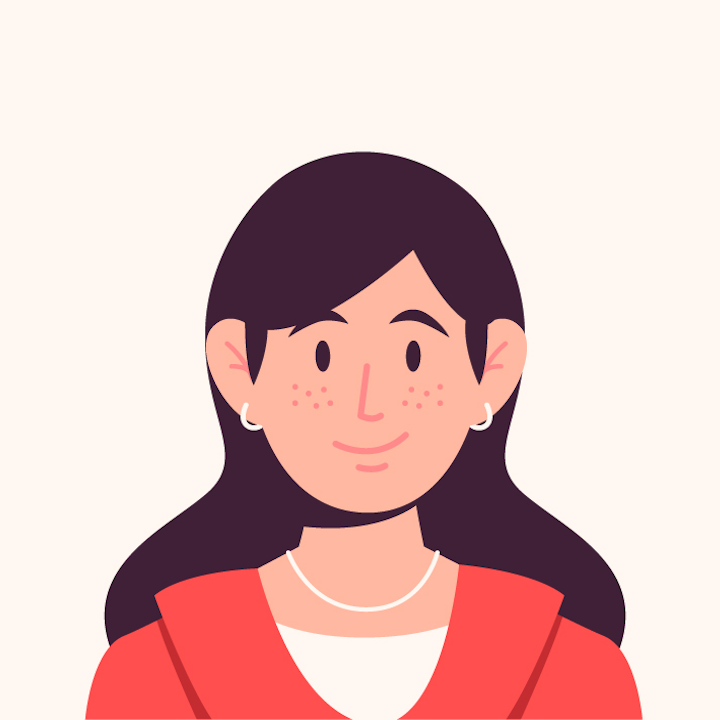
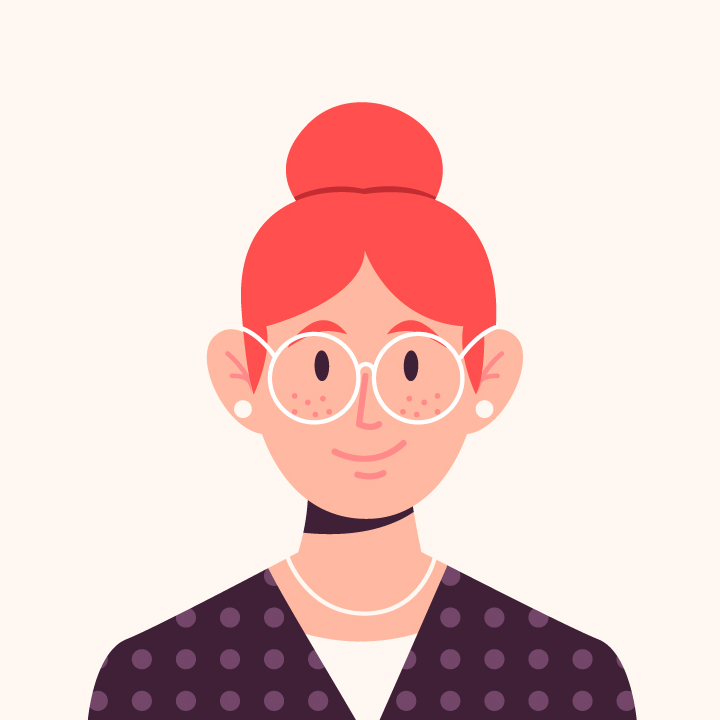
appropriate user profile picture display

diff --git a/client/src/components/Navbar.jsx b/client/src/components/Navbar.jsx
@@ -1,15 +1,52 @@
-import React, { useState } from 'react'
+import React, { useEffect, useState } from 'react'
 import { LuMenu } from "react-icons/lu";
-import { Link } from 'react-router-dom';
+import { Link, Links } from 'react-router-dom';
 import Buttons from './Buttons';
+import axios from 'axios';
+const baseURL = import.meta.env.VITE_BASE_URL
 
 const Navbar = () => {
     const [isMenuOpen, setIsMenuOpen] = useState(false);
+    const [avatar, setAvatar] = useState({ isDisplay: false, avatarID: null })
+    useEffect(() => {
+        const checkAuth = async () => {
+            const token = localStorage.getItem("token");
+            if (!token) return
+            try {
+                const userAuth = await axios.get(`${baseURL}/auth/`, {
+                    headers: {
+                        Authorization: token
+                    }
+                });
+                if (!userAuth.data.err) {
+                    setAvatar({
+                        isDisplay: true,
+                        avatarID: userAuth.data.user.avatar,
+                        gender: userAuth.data.user.gender
+                    })
+                }
+            } catch (err) {
+                localStorage.removeItem("token")
+            }
+        };
 
+        checkAuth();
+    }, []);
+    const logout = () => {
+        localStorage.removeItem('token')
+        setIsMenuOpen(false)
+        setAvatar(
+            {
+                isDisplay: false,
+                avatarID: null
+            }
+        )
+    }
+    console.log(avatar.gender + "_Av" + avatar.avatarID)
     return (
         <div className="px-8 py-5 md:px-20 xl:px-40 lg:py-10 sticky top-0 w-full flex justify-between items-center bg-seaSalt pb-3 z-50">
             <Link to='/' className='cursor-default'>
-                <img src="/Logo/Logo.png" alt="Logo" className='w-35 lg:w-60' draggable='false'/>
+                <img src="/Logo/Logo.png" alt="Logo" className='w-35 lg:w-60' draggable='false' />
             </Link>
 
             <LuMenu
@@ -21,23 +58,46 @@ const Navbar = () => {
             <div className="hidden lg:flex gap-6 items-center">
                 <Link to='/'><p className='text-chineseViolet cursor-pointer text-2xl hover:underline underline-offset-8'>Home</p></Link>
                 <Link to='/generate'><p className='text-chineseViolet cursor-pointer text-2xl hover:underline underline-offset-8'>Generate</p></Link>
-                <div className='flex gap-4'>
-                    <Buttons bgColor='bg-chineseViolet hover:bg-chineseViolet/90 hover:border-chineseViolet/0' width='' textColor='text-ivory' text='Sign In' goTo='/auth/login' otherResponsiveStyles='px-5 py-1' />
-                    <Buttons bgColor='bg-seaSalt hover:border-chineseViolet/90 hover:border-chineseViolet/90' width='' textColor='text-chineseViolet' text='Sign Up' goTo='/auth/register' otherResponsiveStyles='px-5 py-1' />
-                </div>
+                {
+                    (avatar.isDisplay)
+                        ? <>
+                            <Link className='border-2 rounded-full p-0.5 hover:border-dashed border-chineseViolet/0 hover:border-chineseViolet/40 duration-300 ease-in-out'>
+                                <div className="w-20 h-20 border-4 border-chineseViolet rounded-full overflow-clip cursor-pointer">
+                                    <img src={`/Avatars/Square_Images/${avatar.gender}_Av${avatar.avatarID}.png`} alt="" />
+                                </div>
+                            </Link>
+                        </>
+                        : <div className='flex gap-4'>
+                            <Buttons bgColor='bg-chineseViolet hover:bg-chineseViolet/90 hover:border-chineseViolet/0' width='' textColor='text-ivory' text='Sign In' goTo='/auth/login' otherResponsiveStyles='px-5 py-1' />
+                            <Buttons bgColor='bg-seaSalt hover:border-chineseViolet/90 hover:border-chineseViolet/90' width='' textColor='text-chineseViolet' text='Sign Up' goTo='/auth/register' otherResponsiveStyles='px-5 py-1' />
+                        </div>
+                }
             </div>
 
             {/* Mobile Slide Menu */}
             <div className={`fixed top-0 right-0 h-full w-60 bg-seaSalt shadow-lg z-50 transform transition-transform duration-300 ease-in-out ${isMenuOpen ? 'translate-x-0' : 'translate-x-full'}`}>
                 <div className='flex flex-col gap-6 p-6'>
-                    <Link to='/' onClick={() => setIsMenuOpen(false)}><p className='text-chineseViolet text-xl'>Home</p></Link>
-                    <Link to='/generate' onClick={() => setIsMenuOpen(false)}><p className='text-chineseViolet text-xl'>Generate</p></Link>
-                    <div className='w-fit' onClick={() => setIsMenuOpen(false)}>
-                        <Buttons bgColor='bg-chineseViolet hover:bg-chineseViolet/90' width='' textColor='text-ivory' text='Sign In' goTo='/auth/login' otherResponsiveStyles='px-5 py-2' />
-                    </div>
-                    <div className='w-fit' onClick={() => setIsMenuOpen(false)}>
-                        <Buttons bgColor='bg-seaSalt hover:border-chineseViolet/90' width='' textColor='text-chineseViolet' text='Sign Up' goTo='/auth/register' otherResponsiveStyles='px-5 py-2' />
-                    </div>
+                    <Link to='/' className='w-fit' onClick={() => setIsMenuOpen(false)}><p className='text-chineseViolet text-xl'>Home</p></Link>
+                    <Link to='/generate' className='w-fit' onClick={() => setIsMenuOpen(false)}><p className='text-chineseViolet text-xl'>Generate</p></Link>
+                    {
+                        (avatar.isDisplay)
+                            ? <>
+                                <Link>
+                                    <div className="w-18 h-18 border-3 border-chineseViolet rounded-full overflow-clip">
+                                        <img src={`/Avatars/Square_Images/${avatar.gender}_Av${avatar.avatarID}.png`} alt="" />
+                                    </div>
+                                </Link>
+                                <p onClick={logout} className='w-fit text-chineseViolet text-xl'>Logout</p>
+                            </>
+                            : <>
+                                <div className='w-fit' onClick={() => setIsMenuOpen(false)}>
+                                    <Buttons bgColor='bg-chineseViolet hover:bg-chineseViolet/90' width='' textColor='text-ivory' text='Sign In' goTo='/auth/login' otherResponsiveStyles='px-5 py-2' />
+                                </div>
+                                <div className='w-fit' onClick={() => setIsMenuOpen(false)}>
+                                    <Buttons bgColor='bg-seaSalt hover:border-chineseViolet/90' width='' textColor='text-chineseViolet' text='Sign Up' goTo='/auth/register' otherResponsiveStyles='px-5 py-2' />
+                                </div>
+                            </>
+                    }
                 </div>
             </div>
 

diff --git a/server/index.js b/server/index.js
@@ -13,7 +13,7 @@ const connectToDB = require("./config/config_DB")
 connectToDB();
 
 const corsOptions = {
-  origin: ['http://localhost:5173','http://192.168.27.160:5173'], // Change to process.env.CLIENT_URL
+  origin: ['http://localhost:5173','http://192.168.27.160:5173'],   // Change to process.env.CLIENT_URL
   credentials: true,
   methods: ['GET', 'POST', 'PUT', 'DELETE', 'OPTIONS'],
   allowedHeaders: ['Content-Type', 'Authorization']

diff --git a/server/Routes/auth.routes.js b/server/Routes/auth.routes.js
@@ -108,6 +108,7 @@ router.post("/login", async (req, res) => {
             {
                 userID: user._id,
                 avatar: user.avatar,
+                gender: user.gender,
             },
             process.env.JWT_SECRET,
             { expiresIn: "10m" } //************************change the time to 1h***************

diff --git a/server/Models/UserSchema.js b/server/Models/UserSchema.js
@@ -31,7 +31,7 @@ const userSchema = new mongoose.Schema({
     },
     avatar: {
         type: Number,
-        default: 0,
+        default: 1,
     }
 }, { timestamps: true })
 
